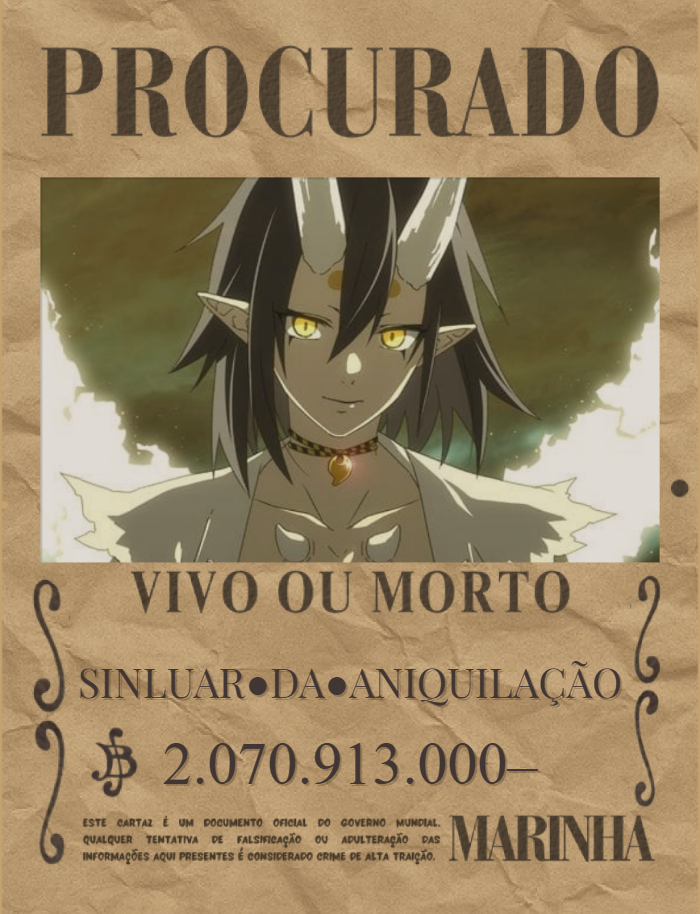
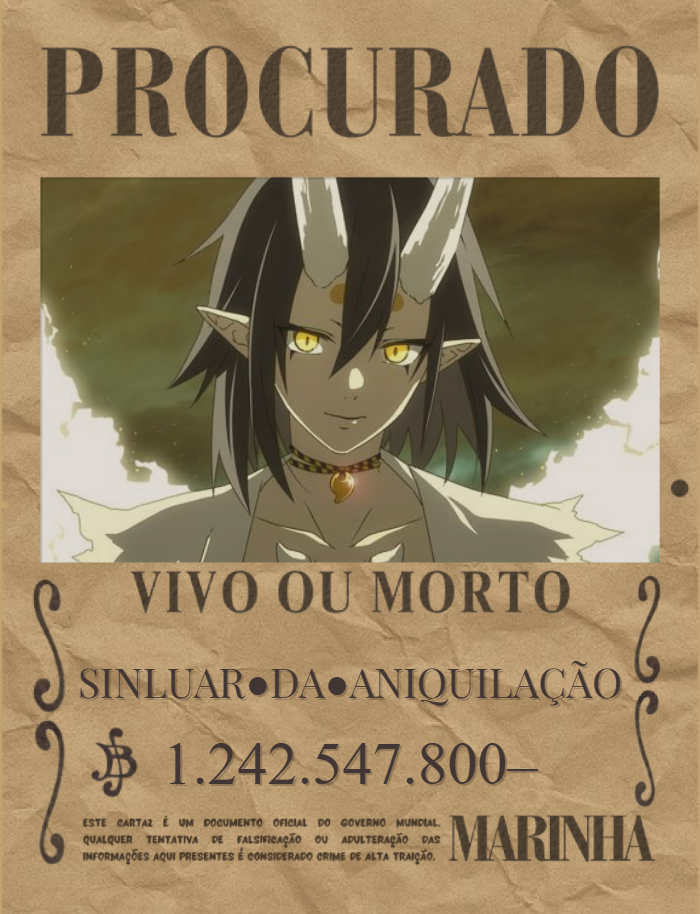
Site

diff --git a/procurados.html b/procurados.html
@@ -35,7 +35,7 @@
                             <img src="assets/imagens/Cartazes/Astarion D. Emiri.png" alt="Astarion D. Emiri" class="bounty-image">
                             <div class="bounty-info">
                                 <h3 class="bounty-name">Astarion D. Emiri</h3>
-                                <p class="bounty-value">2.133.690.000</p>
+                                <p class="bounty-value">1.280.214.000</p>
                             </div>
                         </div>
                         <div class="bounty-card">
@@ -55,8 +55,8 @@
                         <div class="bounty-card">
                             <img src="assets/imagens/Cartazes/Keigo Kiyosaki.png" alt="Keigo Kiyosaki" class="bounty-image">
                             <div class="bounty-info">
-                                <h3 class="bounty-name">Dragon</h3>
-                                <p class="bounty-value">950.000.067</p>
+                                <h3 class="bounty-name">Keigo Kiyosaki</h3>
+                                <p class="bounty-value">570.000.040</p>
                             </div>
                         </div>
                         <div class="bounty-card">
@@ -77,21 +77,21 @@
                             <img src="assets/imagens/Cartazes/Kozuki Ryōshū.png" alt="Kozuki Ryōshū" class="bounty-image">
                             <div class="bounty-info">
                                 <h3 class="bounty-name">Kozuki Ryōshū</h3>
-                                <p class="bounty-value">1.380.000.000</p>
+                                <p class="bounty-value">828.000.000</p>
                             </div>
                         </div>
                         <div class="bounty-card">
                             <img src="assets/imagens/Cartazes/Morgana Du'lor.png" alt="Morgana Du'lor" class="bounty-image">
                             <div class="bounty-info">
                                 <h3 class="bounty-name">Morgana Du'lor</h3>
-                                <p class="bounty-value">3.261.457.180</p>
+                                <p class="bounty-value">1.956.874.308</p>
                             </div>
                         </div>
                         <div class="bounty-card">
                             <img src="assets/imagens/Cartazes/Raidjinn Le Laufey.png" alt="Raidjinn Le Laufey" class="bounty-image">
                             <div class="bounty-info">
                                 <h3 class="bounty-name">Raidjinn Le Laufey</h3>
-                                <p class="bounty-value">2.070.913.000</p>
+                                <p class="bounty-value">1.242.547.800</p>
                             </div>
                         </div>
                         <div class="bounty-card">
